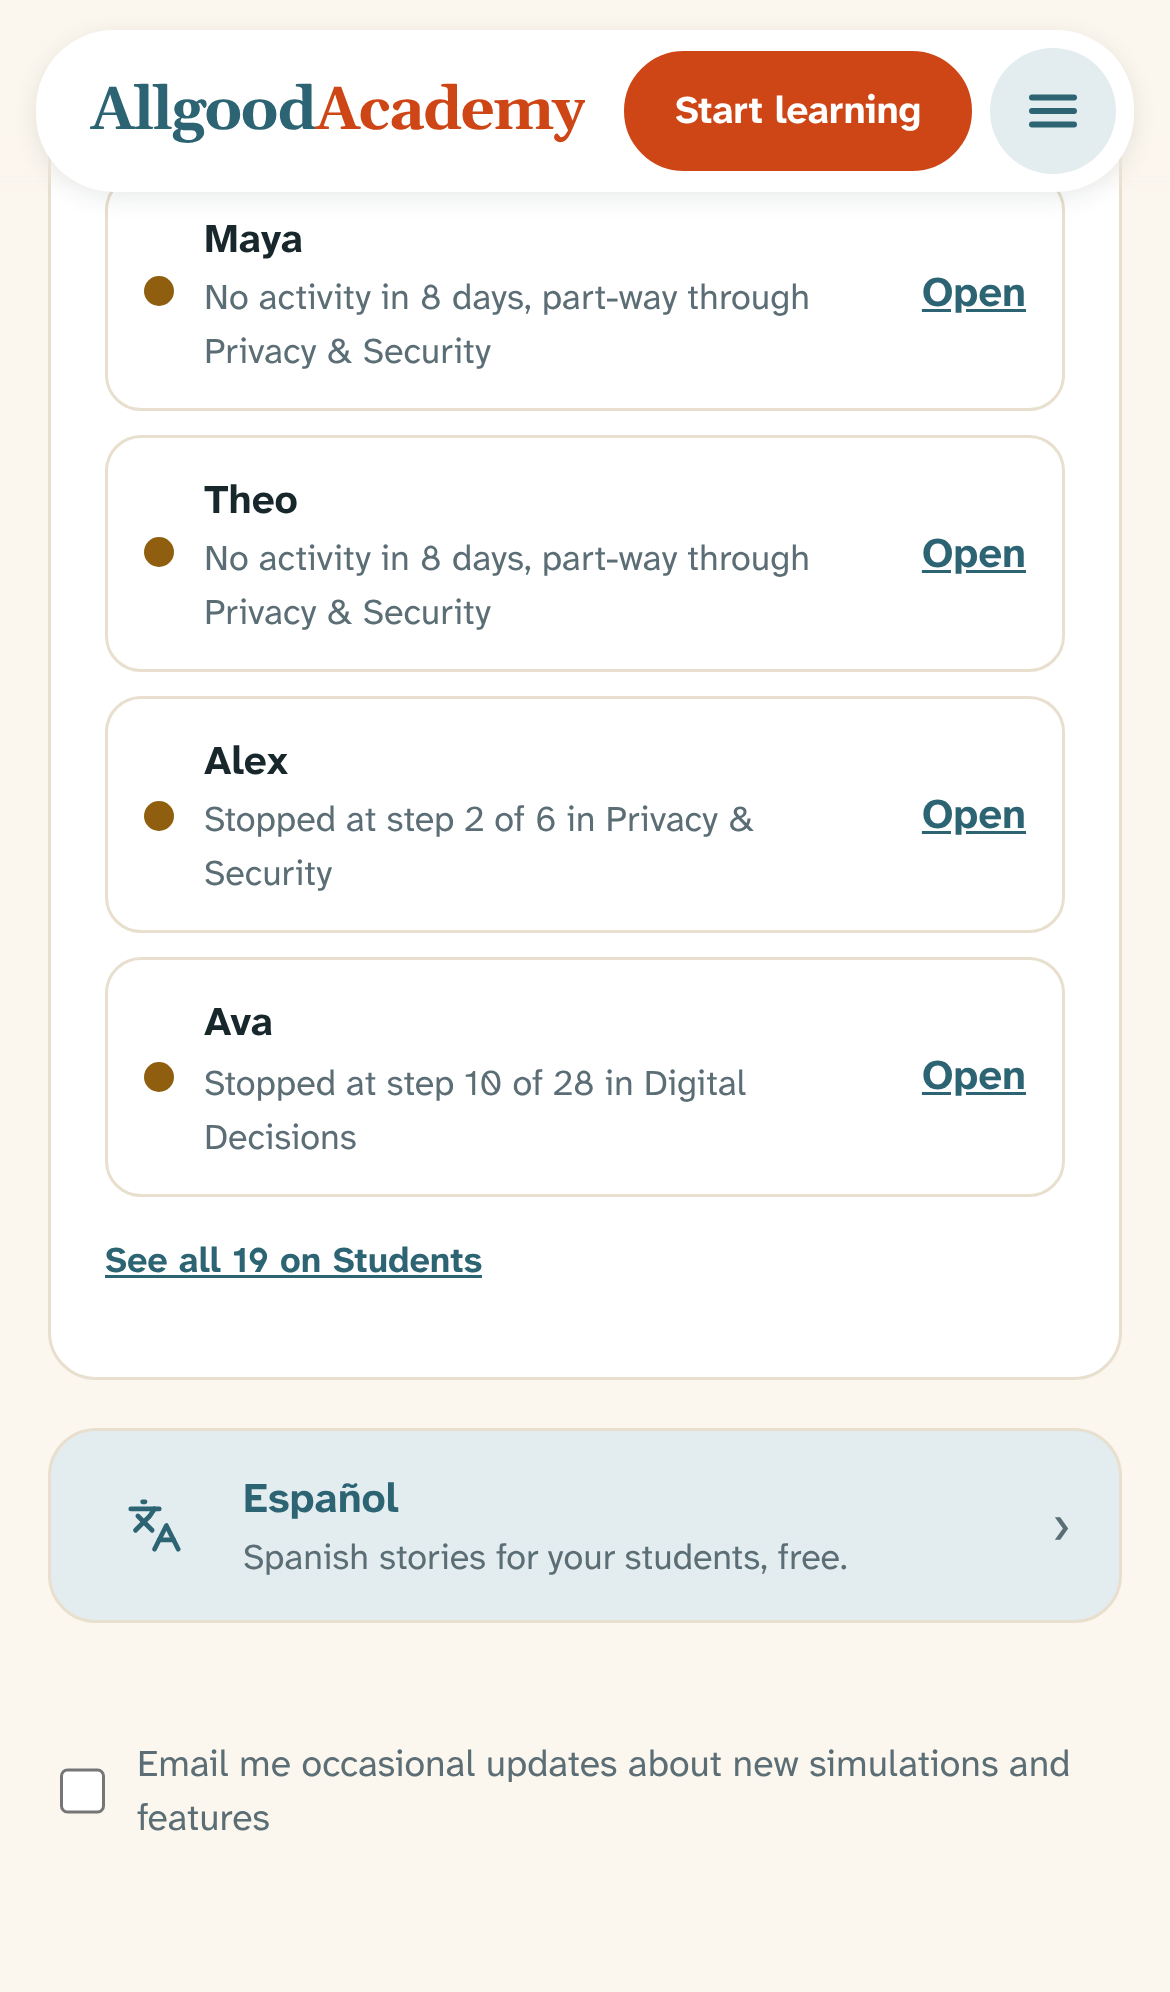
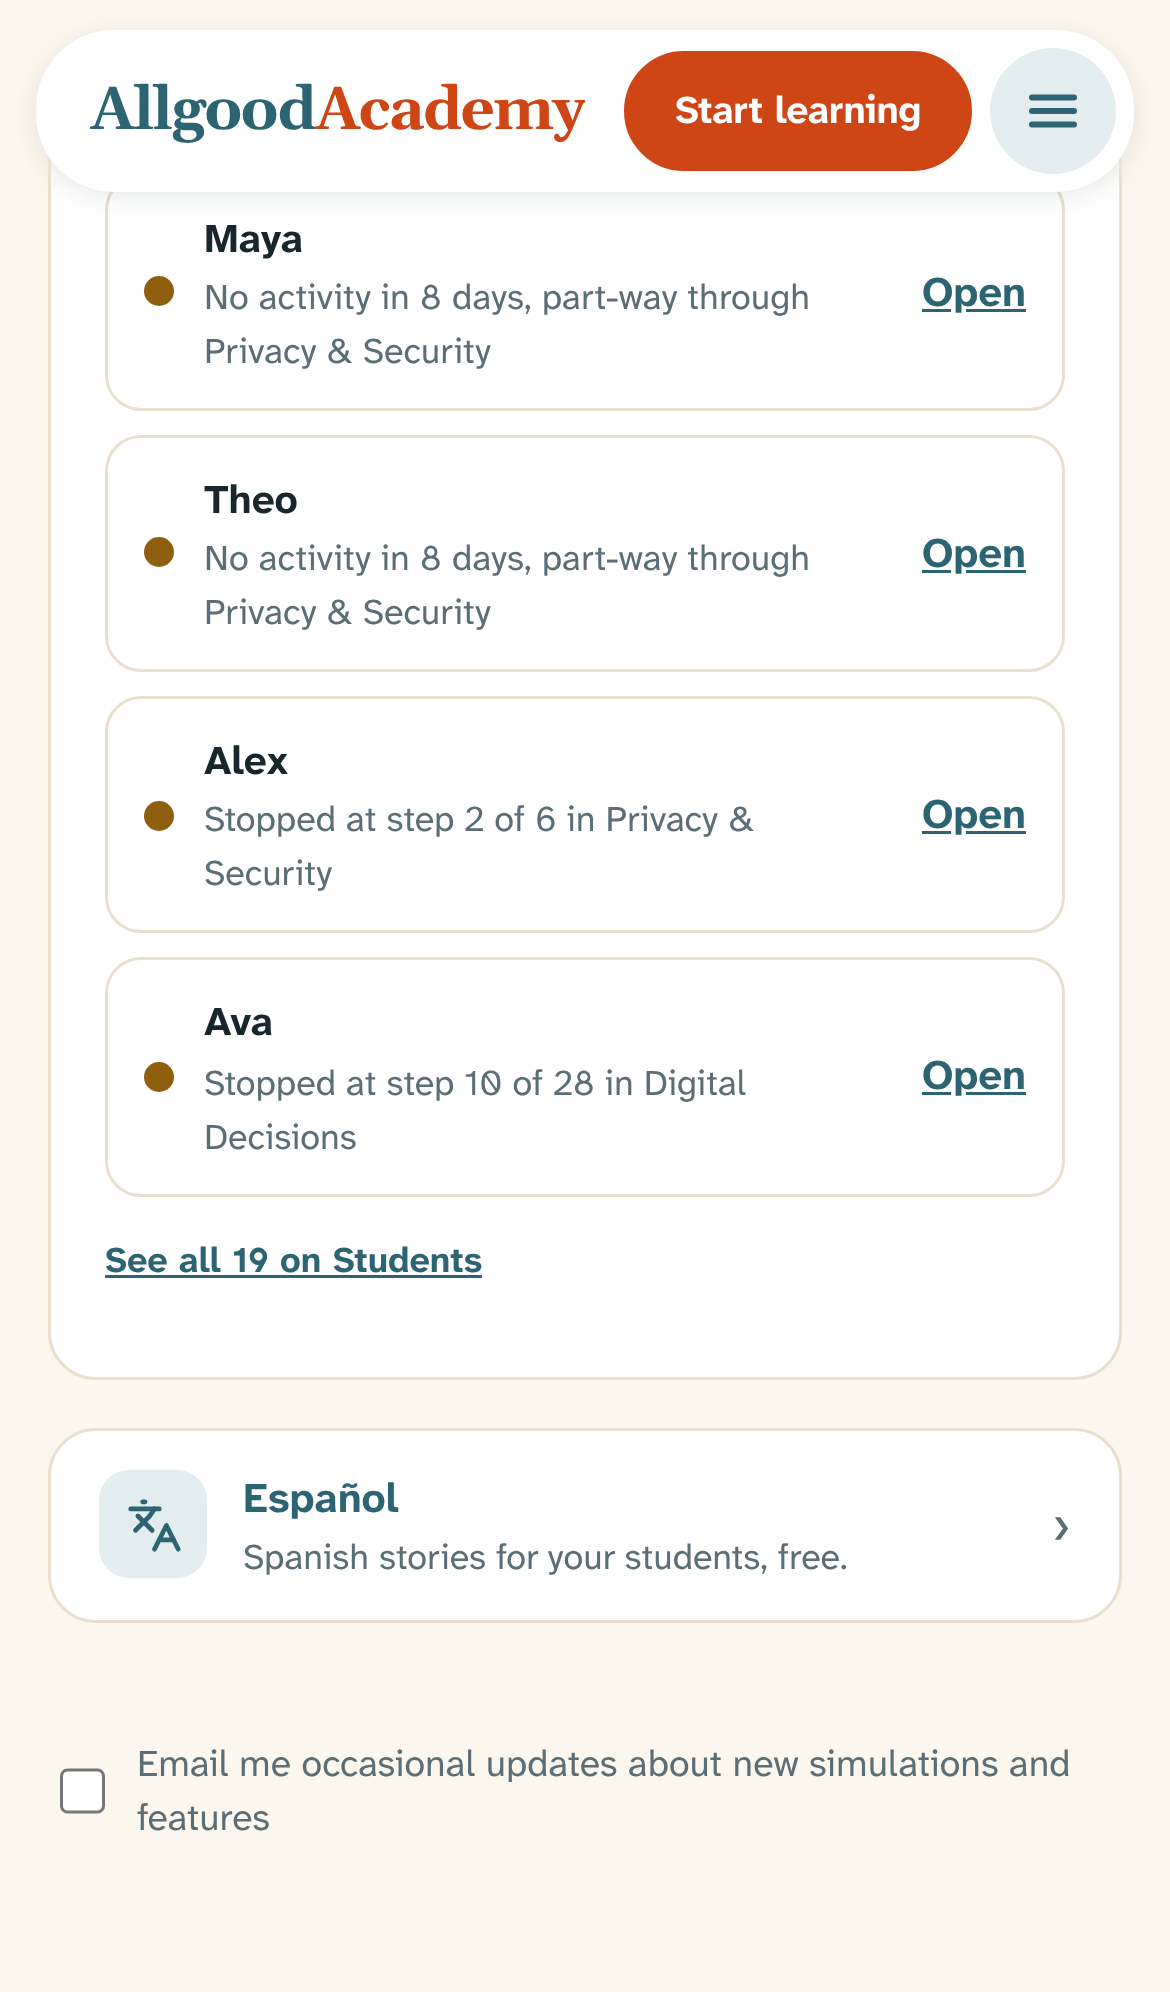
Mission Control Español card: hover changes the border, not the background (keeps the copy at AA)
Claude-Session: https://claude.ai/code/session_01KoHTDGyzbCrW1ScZQkCqjv

Changed region(s): [[0.0308, 0.7159, 0.9538, 0.8404]]

diff --git a/public/mission-control/index.html b/public/mission-control/index.html
@@ -114,7 +114,7 @@ button.plan.up:hover{background:var(--orange);color:#fff}
 .ic svg{width:19px;height:19px}
 /* Español card (2026-11-27). Self-contained; replaced in the Mission Control redesign. */
 .es-card{display:flex;align-items:center;gap:12px;margin-top:16px;padding:12px 16px;background:var(--surface);border:1px solid var(--line);border-radius:16px;color:var(--ink);text-decoration:none;min-height:44px}
-.es-card:hover{background:var(--teal-wash)}
+.es-card:hover{border-color:var(--teal)}
 .es-card .ic{background:var(--teal-wash);color:var(--teal-deep)}
 .es-card b{display:block;font-size:14px;color:var(--teal-deep)}
 .es-card .meta{flex:1}
